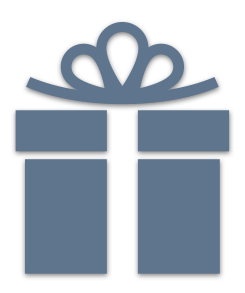
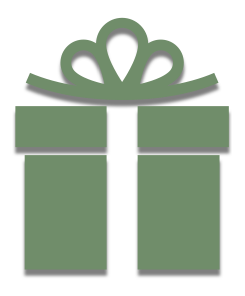
initial load

diff --git a/css/styles.min.css b/css/styles.min.css
@@ -85,13 +85,13 @@ h6 {
 /*submit*/
 .btn-fill {
     color: #fff;
-    border: solid 2px #63748B;
+    border: solid 2px #617466;
     -moz-border-radius: 40px;
     -webkit-border-radius: 40px;
     border-radius: 40px;
     display: inline-block;
     text-transform: uppercase;
-    background-color: #63748B
+    background-color: #617466
 }
 
 .btn-fill:hover,
@@ -129,7 +129,7 @@ h6 {
 }
 /*floating arrow bottom*/
 a {
-    color: #63748B;
+    color: #617466;
     -webkit-transition-timing-function: ease;
     transition-timing-function: ease;
     -webkit-transition-duration: 200ms;
@@ -1013,7 +1013,7 @@ header .member-actions {
 }
 /*RSVP Icons*/
 .rsvp .rsvp-form .form-input-group i {
-    color: #63748B;
+    color: #617466;
     font-size: 14px
 }
 
